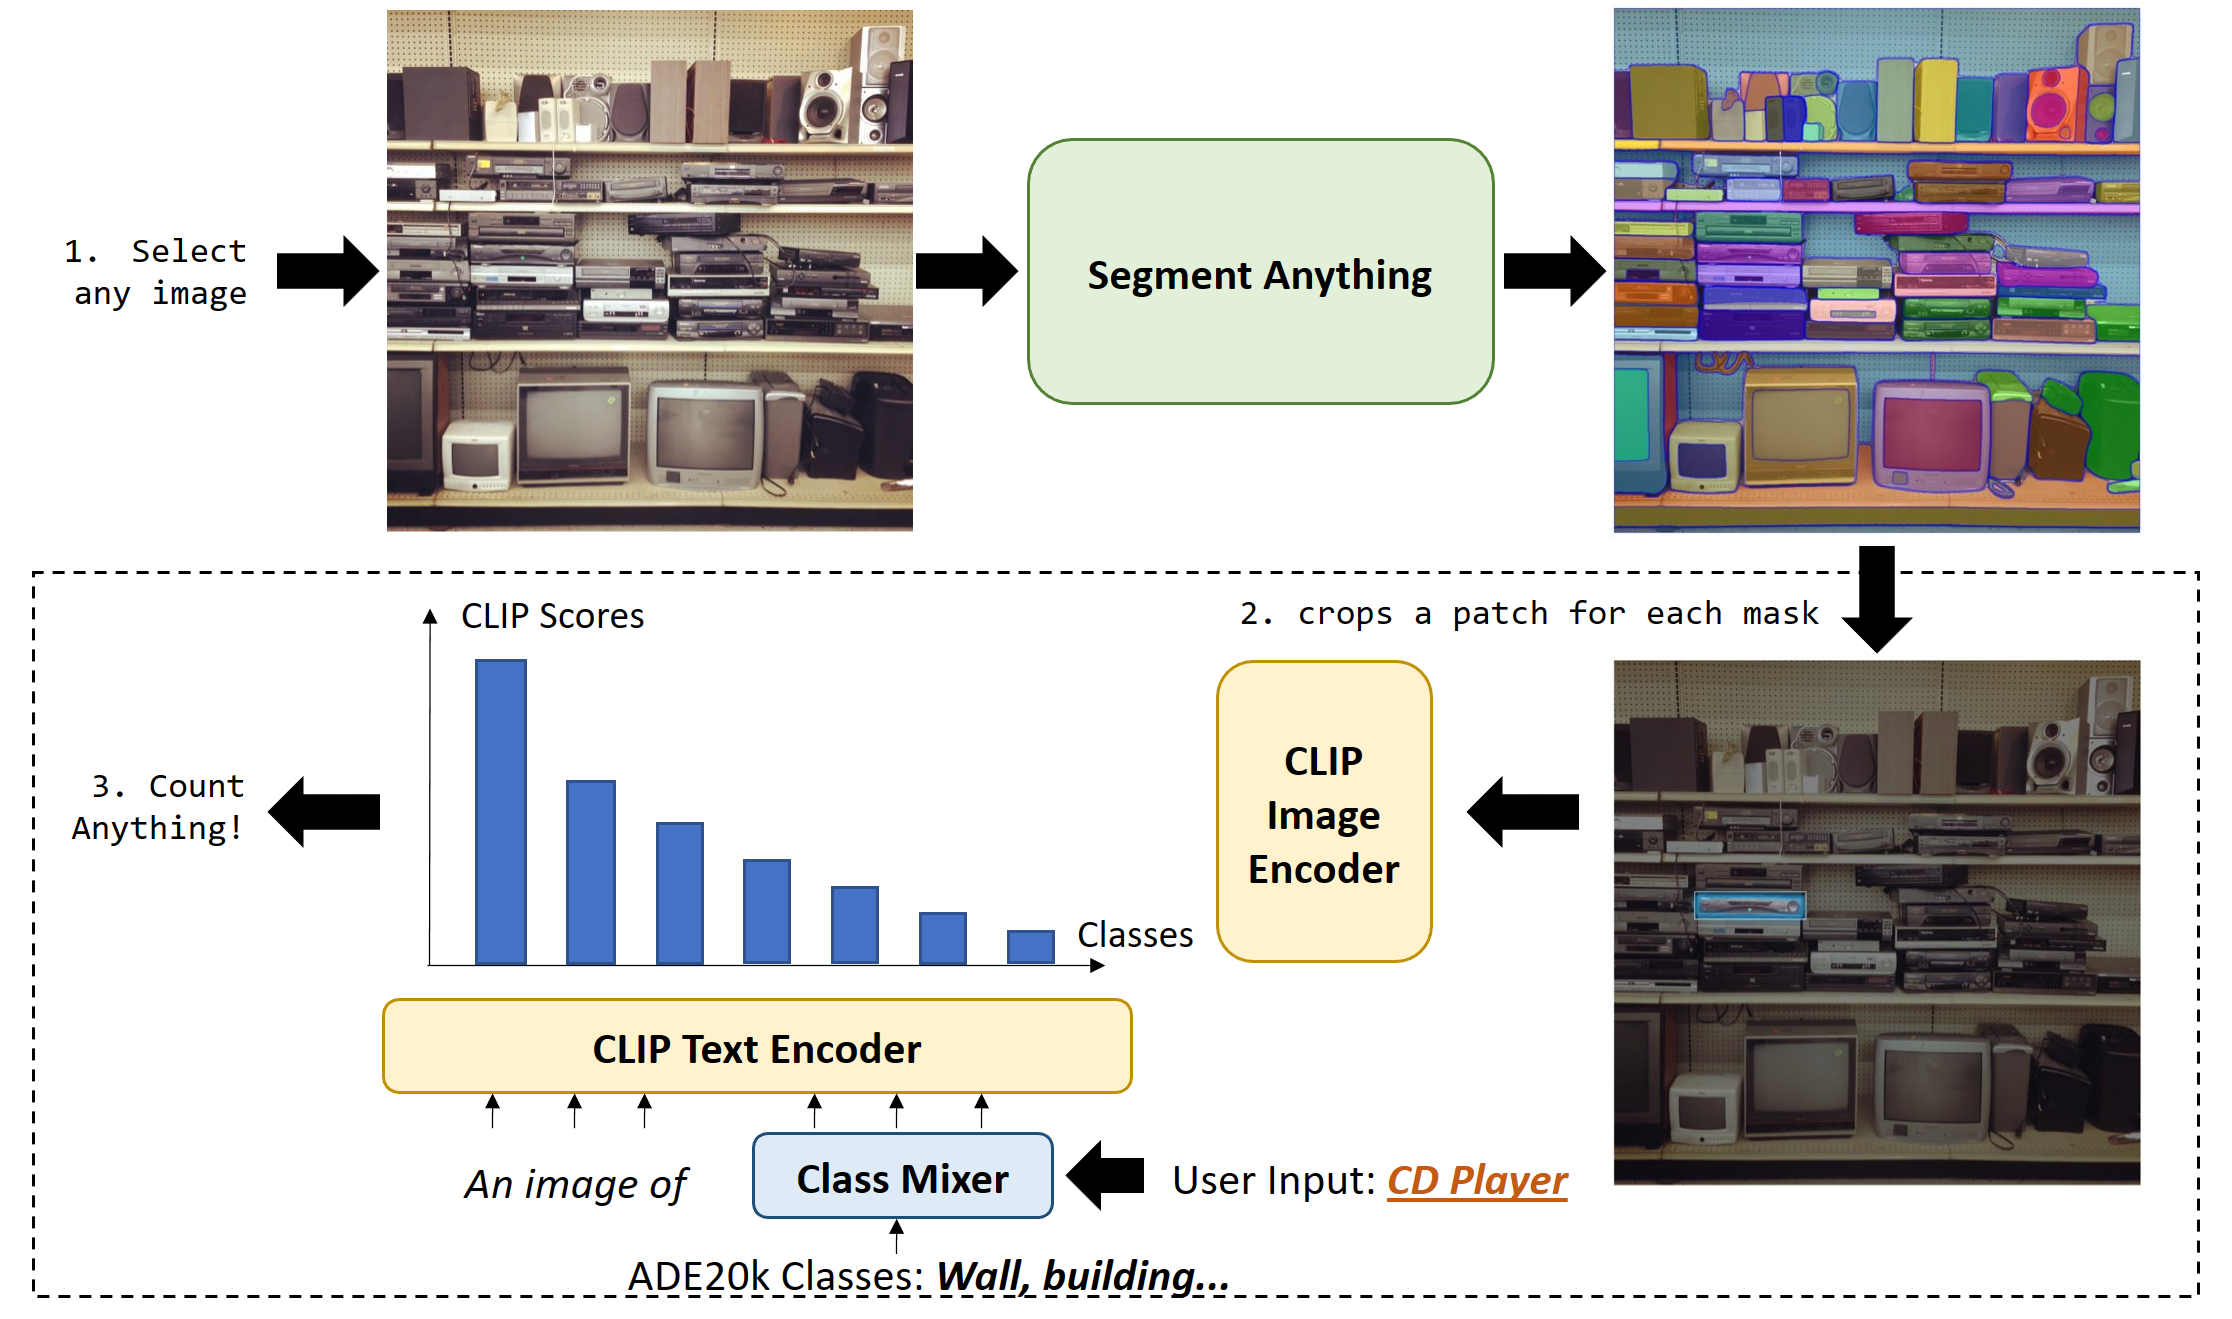
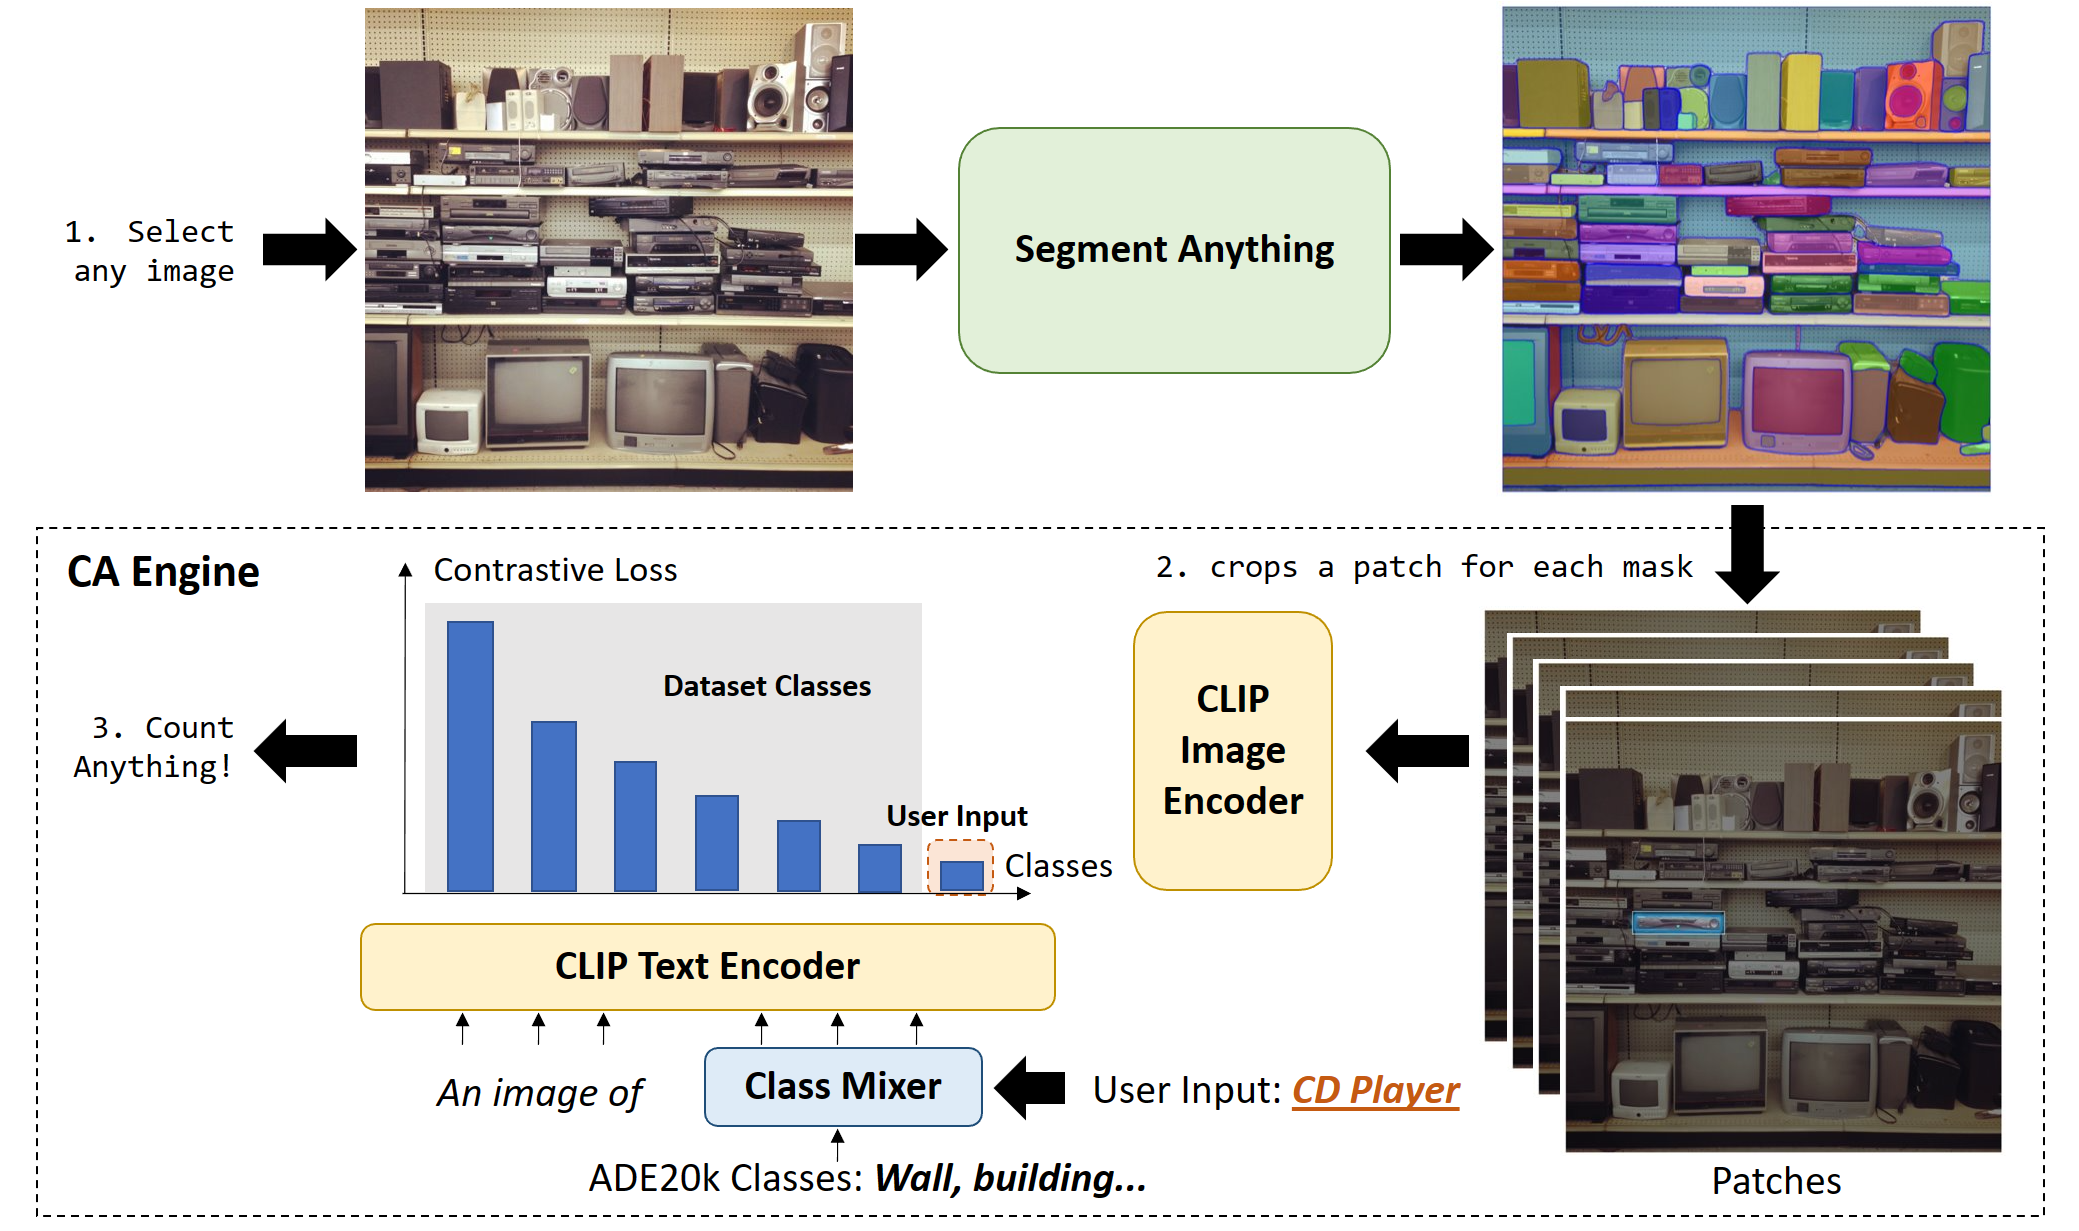
update

diff --git a/README.md b/README.md
@@ -10,7 +10,7 @@ Our solution can count *any object* specified by users within an image.
 
 ### 🚄 Count Anything (CA) engine
 ![](./figures/CA_model.png)
-The SSA engine consists of three steps:
+The CA engine consists of three steps:
 - **(I) Segement Anything.** Following [Semantic-Segment-Anything](https://github.com/fudan-zvg/Semantic-Segment-Anything), CA engine crops a patch for each mask predicted by [Segment Anything](https://segment-anything.com/).
 - **(II) Class Mixer.** To identify the masks that match the user’s text prompt, we add the text prompt as an additional class into the class list from the close-set datasets (COCO or ADE20K). 
 - **(III) CLIP Encoders.** The CA engine uses CLIP image encoder and text encoder to assess if the text prompt is the best option among other classes. If yes, this mask is considered as an instance of the class given by the text prompt, and the count number is incremented by 1.
